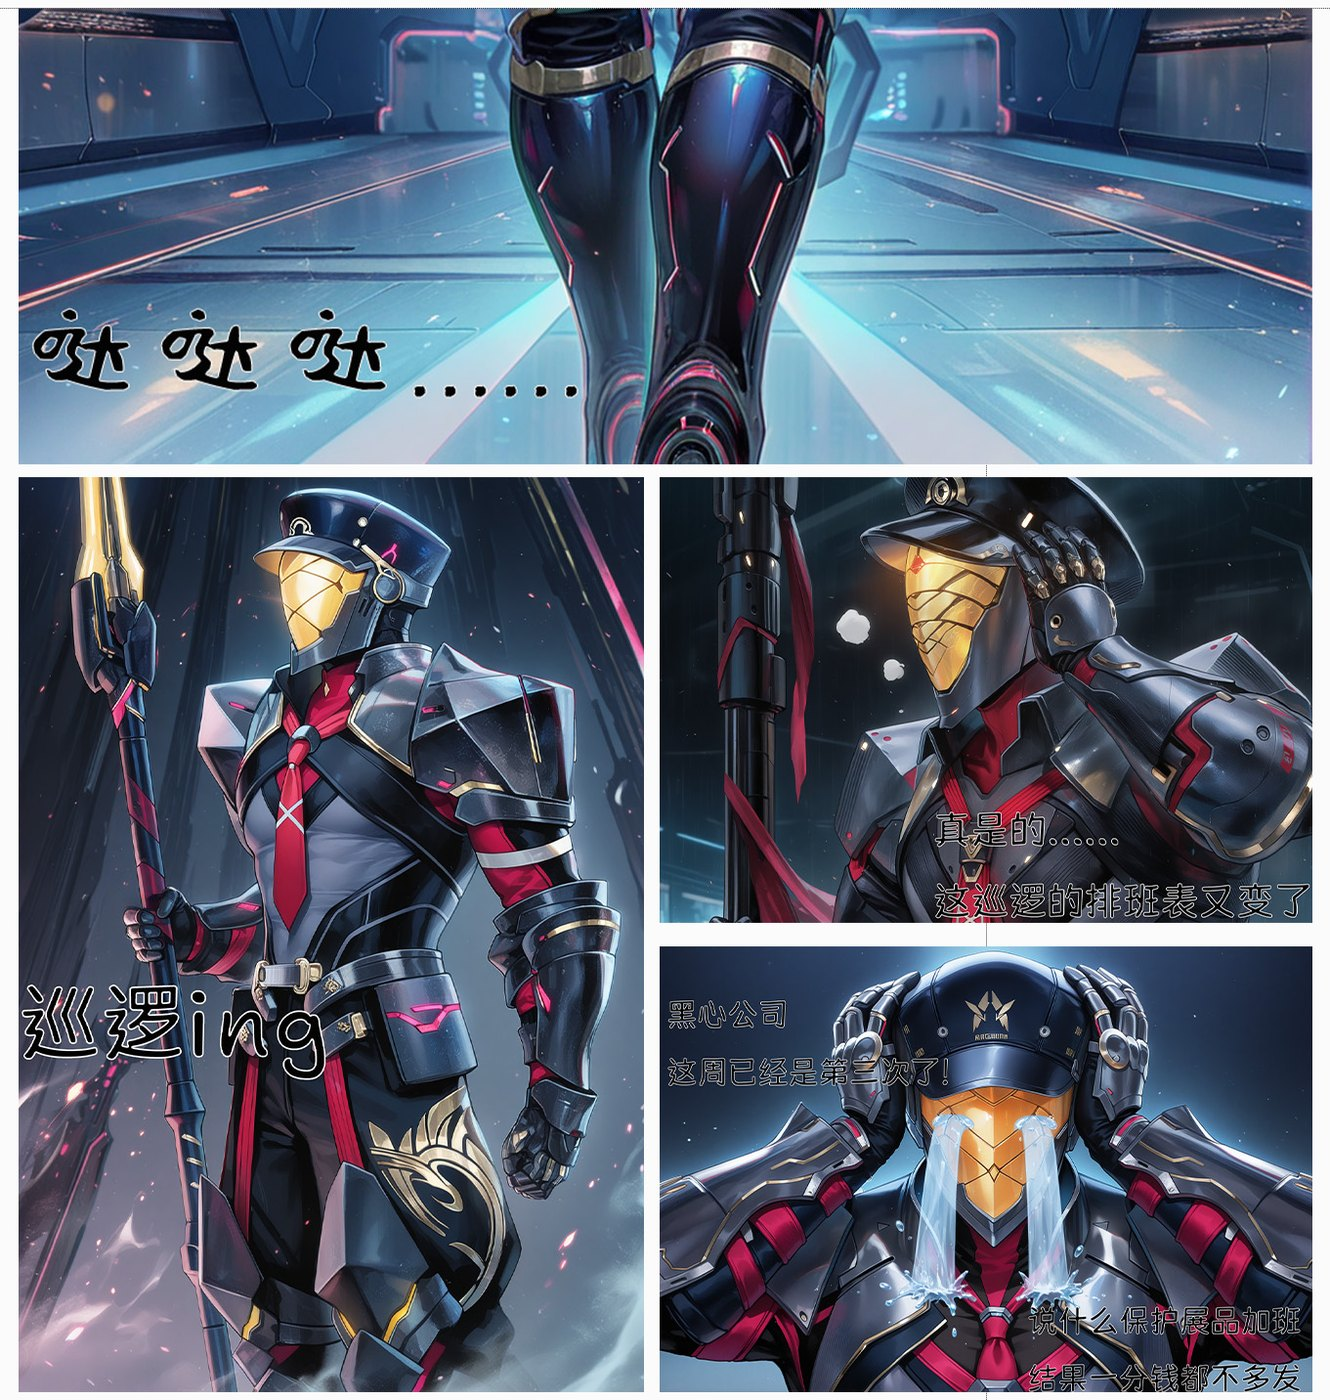
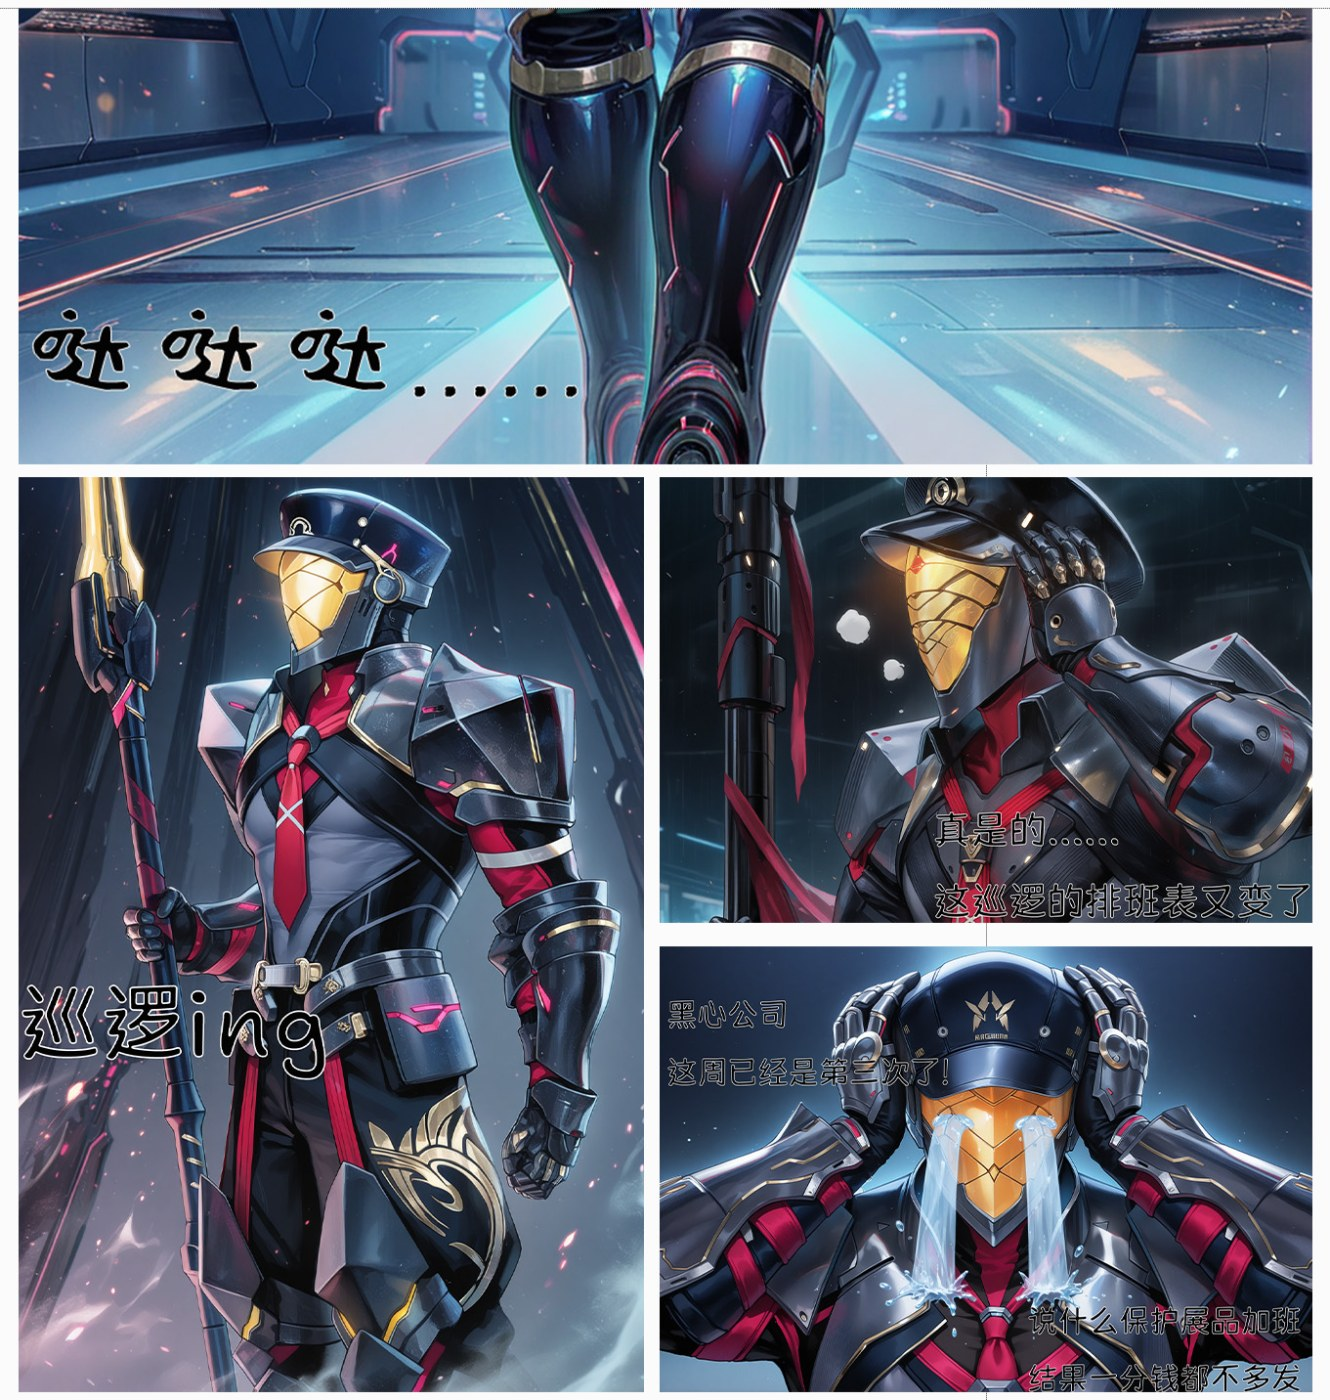
v0.7.1: refresh Mode A/B README examples from current pipeline

diff --git a/README.md b/README.md
@@ -43,11 +43,11 @@
 |---|---|
 | ![](examples/mode-a-comic/0-1-before.jpg) | ![](examples/mode-a-comic/0-1-after.jpg) |
 
-### Mode B 能过、Mode A 过不了
+### Mode B 能过、Mode A 会擦糊
 
-同一张图：Mode A 只有带字原图，LaMa 擦不干净会中英叠字。Mode B 用无字底图，不跑擦字，残字问题直接消失。
+同一张图：Mode A 只有带字原图，要本地 LaMa，腿/天可能擦糊。Mode B 用无字底图，不跑擦字，身体像素保持。
 
-| 原图 | Mode A（残字） | Mode B（干净） |
+| 原图 | Mode A | Mode B（干净底图） |
 |---|---|---|
 | ![](examples/mode-b-vs-a/19-lettered.jpg) | ![](examples/mode-b-vs-a/19-mode-a.jpg) | ![](examples/mode-b-vs-a/19-mode-b.jpg) |
 | ![](examples/mode-b-vs-a/11_0001-lettered.jpg) | ![](examples/mode-b-vs-a/11_0001-mode-a.jpg) | ![](examples/mode-b-vs-a/11_0001-mode-b.jpg) |
@@ -325,7 +325,7 @@ illustration-lettering/
   requirements.txt
   .env.example
   examples/              SFW 对照图
-  VERSION                0.7.0
+  VERSION                0.7.1
 ```
 
 运行时自己出现、不要提交：
@@ -340,6 +340,10 @@ output/
 ---
 
 ## 版本
+
+**v0.7.1** — 2026-08-29
+
+- 用 v0.7 管线重出 README Mode A / Mode B 对照图
 
 **v0.7.0** — 2026-08-29
 

diff --git a/examples/README.md b/examples/README.md
@@ -6,7 +6,7 @@
 |---|---|
 | `mode-a-bubble/` | Mode A 对话框铺满（99 / 94 / 96） |
 | `mode-a-comic/` | Mode A 分镜 |
-| `mode-b-vs-a/` | **同一张图三栏**：原图、Mode A 残字、Mode B 干净（19、11_0001、14.1-8） |
+| `mode-b-vs-a/` | **同一张图三栏**：原图、Mode A（LaMa）、Mode B 干净底图（19、11_0001、14.1-8） |
 | `mode-b-cleanplate/` | Mode B 干净叠字/分镜（1、66、70） |
 
 不要用「底图把对话框整块抹掉」的 99 当 Mode B 样例。
